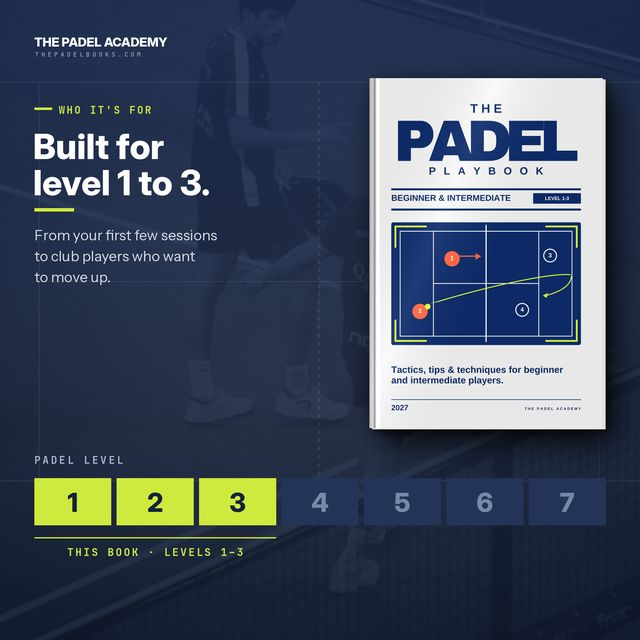
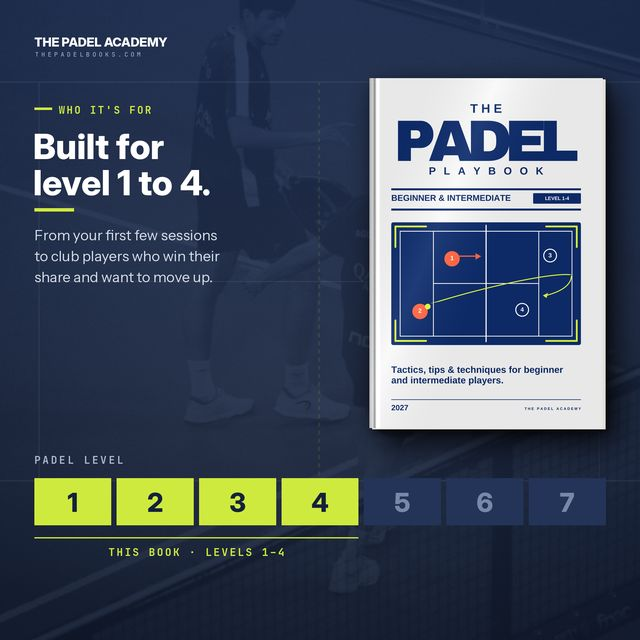
Beginner & Intermediate: level 1-4; real page counts (219, Kids 144); refreshed gallery
Claude-Session: https://claude.ai/code/session_01HDyiDiBH5urCYLNdWDXYCS

Changed region(s): [[0.0938, 0.7188, 0.5625, 0.875], [0.0625, 0.375, 0.3438, 0.4688], [0.2812, 0.25, 0.3438, 0.3125]]

diff --git a/the-padel-playbook-beginner-intermediate.html b/the-padel-playbook-beginner-intermediate.html
@@ -2,13 +2,13 @@
 <html lang="en"><head>
 <meta charset="utf-8"><meta name="viewport" content="width=device-width, initial-scale=1, viewport-fit=cover">
 <title>The Padel Playbook: Beginner &amp; Intermediate (2027) | Ebook | The Padel Academy</title>
-<meta name="description" content="The Padel Playbook: Beginner &amp; Intermediate: Tactics, tips &amp; techniques for beginner and intermediate players (2027). 180 pages with court diagrams. Look inside the first 20 pages, then buy the ebook (EPUB + PDF).">
+<meta name="description" content="The Padel Playbook: Beginner &amp; Intermediate: Tactics, tips &amp; techniques for beginner and intermediate players (2027). 219 pages with court diagrams. Look inside the first 20 pages, then buy the ebook (EPUB + PDF).">
 <link rel="canonical" href="https://thepadelbooks.com/the-padel-playbook-beginner-intermediate">
-<meta property="og:type" content="article"><meta property="og:title" content="The Padel Playbook: Beginner &amp; Intermediate (2027) | Ebook | The Padel Academy"><meta property="og:description" content="The Padel Playbook: Beginner &amp; Intermediate: Tactics, tips &amp; techniques for beginner and intermediate players (2027). 180 pages with court diagrams. Look inside the first 20 pages, then buy the ebook (EPUB + PDF).">
+<meta property="og:type" content="article"><meta property="og:title" content="The Padel Playbook: Beginner &amp; Intermediate (2027) | Ebook | The Padel Academy"><meta property="og:description" content="The Padel Playbook: Beginner &amp; Intermediate: Tactics, tips &amp; techniques for beginner and intermediate players (2027). 219 pages with court diagrams. Look inside the first 20 pages, then buy the ebook (EPUB + PDF).">
 <meta property="og:url" content="https://thepadelbooks.com/the-padel-playbook-beginner-intermediate"><meta property="og:image" content="https://thepadelbooks.com/photo-net-ball.jpg"><meta name="twitter:card" content="summary_large_image">
 <link rel="preconnect" href="https://fonts.googleapis.com"><link rel="preconnect" href="https://fonts.gstatic.com" crossorigin><link rel="stylesheet" href="https://fonts.googleapis.com/css2?family=Instrument+Sans:ital,wght@0,400;0,500;0,600;1,400&family=JetBrains+Mono:wght@400;600&display=swap">
 <link rel="stylesheet" href="/journal.css?v=dfe42151">
-<script type="application/ld+json">{"@context":"https://schema.org","@type":"Book","name":"The Padel Playbook: Beginner & Intermediate","author":{"@type":"Organization","name":"The Padel Academy"},"bookFormat":"https://schema.org/EBook","numberOfPages":180,"image":"https://thepadelbooks.com/cover-beginner.jpg","offers":{"@type":"Offer","price":"4.99","priceCurrency":"EUR","url":"https://discover.lemonsqueezy.com/checkout/buy/a44e1d09-6ff9-475b-901d-65291fad3bf1","availability":"https://schema.org/InStock"}}</script>
+<script type="application/ld+json">{"@context":"https://schema.org","@type":"Book","name":"The Padel Playbook: Beginner & Intermediate","author":{"@type":"Organization","name":"The Padel Academy"},"bookFormat":"https://schema.org/EBook","numberOfPages":219,"image":"https://thepadelbooks.com/cover-beginner.jpg","offers":{"@type":"Offer","price":"4.99","priceCurrency":"EUR","url":"https://discover.lemonsqueezy.com/checkout/buy/a44e1d09-6ff9-475b-901d-65291fad3bf1","availability":"https://schema.org/InStock"}}</script>
 </head><body>
 <header class="top"><div class="wrap nav">
 <a class="logo" href="/"><b>THE PADEL ACADEMY</b><span>THEPADELBOOKS.COM</span></a>
@@ -25,7 +25,7 @@
     <nav class="crumbs"><a href="/#books">Books</a> / <span>Beginner & Intermediate</span></nav>
     <h1>The Padel Playbook: Beginner & Intermediate</h1>
     <p class="book-sub">Tactics, tips & techniques for beginner and intermediate players (2027)</p>
-    <div class="meta"><span>New to padel → level 3</span><span>180 pages</span><span>By The Padel Academy</span><span>2 min read</span></div>
+    <div class="meta"><span>Level 1 → 4</span><span>219 pages</span><span>By The Padel Academy</span><span>2 min read</span></div>
     <div class="about"><p><strong>From your first rally to your first league.</strong> Padel is easy to start and hard to master. This book takes you from "I can rally" to winning matches, using court diagrams instead of long theory.</p>
 <p>Part one teaches the game: how to find your level, the rules that decide matches (scoring, the serve, the walls and the new Star Point), the right gear, and how to choose between the drive and revés side.</p>
 <p>Part two is where points are won: positioning and moving as a pair, the wall game off the back, side and double walls, overheads (bandeja, smash, víbora and when to let the ball bounce), volleys, lobs and the chiquita, the patterns that win points at club level, and what to learn from Premier Padel.</p>
@@ -37,7 +37,7 @@
 <section class="gal" id="closer-look"><div class="wrap">
   <div class="look-head"><div><div class="eyebrow">Inside the book</div><h2>Take a closer look</h2></div>
   <div class="gal-nav"><button class="nav-btn gal-prev" type="button" aria-label="Scroll back">←</button><button class="nav-btn gal-next" type="button" aria-label="Scroll forward">→</button></div></div>
-  <div class="gal-track"><button class="gal-item" type="button" data-full="/gallery/beginner/02.jpg" aria-label="Enlarge image 1 of 9: Built for level 1 to 3."><img src="/gallery/beginner/02-sm.jpg" alt="The Padel Playbook: Beginner & Intermediate: Built for level 1 to 3." width="640" height="640" loading="lazy" decoding="async"></button><button class="gal-item" type="button" data-full="/gallery/beginner/03.jpg" aria-label="Enlarge image 2 of 9: From your first rally to your first league."><img src="/gallery/beginner/03-sm.jpg" alt="The Padel Playbook: Beginner & Intermediate: From your first rally to your first league." width="640" height="640" loading="lazy" decoding="async"></button><button class="gal-item" type="button" data-full="/gallery/beginner/04.jpg" aria-label="Enlarge image 3 of 9: The whole game, explained."><img src="/gallery/beginner/04-sm.jpg" alt="The Padel Playbook: Beginner & Intermediate: The whole game, explained." width="640" height="640" loading="lazy" decoding="async"></button><button class="gal-item" type="button" data-full="/gallery/beginner/05.jpg" aria-label="Enlarge image 4 of 9: Clear steps. Real diagrams. Next match."><img src="/gallery/beginner/05-sm.jpg" alt="The Padel Playbook: Beginner & Intermediate: Clear steps. Real diagrams. Next match." width="640" height="640" loading="lazy" decoding="async"></button><button class="gal-item" type="button" data-full="/gallery/beginner/06.jpg" aria-label="Enlarge image 5 of 9: See the play before you play it."><img src="/gallery/beginner/06-sm.jpg" alt="The Padel Playbook: Beginner & Intermediate: See the play before you play it." width="640" height="640" loading="lazy" decoding="async"></button><button class="gal-item" type="button" data-full="/gallery/beginner/07.jpg" aria-label="Enlarge image 6 of 9: The bandeja, explained."><img src="/gallery/beginner/07-sm.jpg" alt="The Padel Playbook: Beginner & Intermediate: The bandeja, explained." width="640" height="640" loading="lazy" decoding="async"></button><button class="gal-item" type="button" data-full="/gallery/beginner/08.jpg" aria-label="Enlarge image 7 of 9: Move as a pair."><img src="/gallery/beginner/08-sm.jpg" alt="The Padel Playbook: Beginner & Intermediate: Move as a pair." width="640" height="640" loading="lazy" decoding="async"></button><button class="gal-item" type="button" data-full="/gallery/beginner/09.jpg" aria-label="Enlarge image 8 of 9: How club points are won."><img src="/gallery/beginner/09-sm.jpg" alt="The Padel Playbook: Beginner & Intermediate: How club points are won." width="640" height="640" loading="lazy" decoding="async"></button><button class="gal-item" type="button" data-full="/gallery/beginner/10.jpg" aria-label="Enlarge image 9 of 9: Read the court like a coach."><img src="/gallery/beginner/10-sm.jpg" alt="The Padel Playbook: Beginner & Intermediate: Read the court like a coach." width="640" height="640" loading="lazy" decoding="async"></button></div>
+  <div class="gal-track"><button class="gal-item" type="button" data-full="/gallery/beginner/02.jpg" aria-label="Enlarge image 1 of 9: Built for level 1 to 4."><img src="/gallery/beginner/02-sm.jpg" alt="The Padel Playbook: Beginner & Intermediate: Built for level 1 to 4." width="640" height="640" loading="lazy" decoding="async"></button><button class="gal-item" type="button" data-full="/gallery/beginner/03.jpg" aria-label="Enlarge image 2 of 9: From your first rally to your first league."><img src="/gallery/beginner/03-sm.jpg" alt="The Padel Playbook: Beginner & Intermediate: From your first rally to your first league." width="640" height="640" loading="lazy" decoding="async"></button><button class="gal-item" type="button" data-full="/gallery/beginner/04.jpg" aria-label="Enlarge image 3 of 9: The whole game, explained."><img src="/gallery/beginner/04-sm.jpg" alt="The Padel Playbook: Beginner & Intermediate: The whole game, explained." width="640" height="640" loading="lazy" decoding="async"></button><button class="gal-item" type="button" data-full="/gallery/beginner/05.jpg" aria-label="Enlarge image 4 of 9: Clear steps. Real diagrams. Next match."><img src="/gallery/beginner/05-sm.jpg" alt="The Padel Playbook: Beginner & Intermediate: Clear steps. Real diagrams. Next match." width="640" height="640" loading="lazy" decoding="async"></button><button class="gal-item" type="button" data-full="/gallery/beginner/06.jpg" aria-label="Enlarge image 5 of 9: See the play before you play it."><img src="/gallery/beginner/06-sm.jpg" alt="The Padel Playbook: Beginner & Intermediate: See the play before you play it." width="640" height="640" loading="lazy" decoding="async"></button><button class="gal-item" type="button" data-full="/gallery/beginner/07.jpg" aria-label="Enlarge image 6 of 9: The bandeja, explained."><img src="/gallery/beginner/07-sm.jpg" alt="The Padel Playbook: Beginner & Intermediate: The bandeja, explained." width="640" height="640" loading="lazy" decoding="async"></button><button class="gal-item" type="button" data-full="/gallery/beginner/08.jpg" aria-label="Enlarge image 7 of 9: Move as a pair."><img src="/gallery/beginner/08-sm.jpg" alt="The Padel Playbook: Beginner & Intermediate: Move as a pair." width="640" height="640" loading="lazy" decoding="async"></button><button class="gal-item" type="button" data-full="/gallery/beginner/09.jpg" aria-label="Enlarge image 8 of 9: How club points are won."><img src="/gallery/beginner/09-sm.jpg" alt="The Padel Playbook: Beginner & Intermediate: How club points are won." width="640" height="640" loading="lazy" decoding="async"></button><button class="gal-item" type="button" data-full="/gallery/beginner/10.jpg" aria-label="Enlarge image 9 of 9: Read the court like a coach."><img src="/gallery/beginner/10-sm.jpg" alt="The Padel Playbook: Beginner & Intermediate: Read the court like a coach." width="640" height="640" loading="lazy" decoding="async"></button></div>
   <p class="hint">Swipe or use the arrows. Tap an image to enlarge it.</p>
   <dialog class="gal-box" aria-label="Enlarged image"><img alt=""><button class="gal-x" type="button" aria-label="Close">✕</button><button class="nav-btn gal-bp" type="button" aria-label="Previous image">←</button><button class="nav-btn gal-bn" type="button" aria-label="Next image">→</button></dialog>
 </div></section>
@@ -59,11 +59,11 @@
 </script>
 <section class="look" id="look-inside"><div class="wrap">
   <div class="look-head"><div><div class="eyebrow">Look inside</div><h2>Flip through the first 20 pages</h2></div>
-  <p class="counter" aria-live="polite">Page <b id="pg">1</b> of 180</p></div>
-  <div class="viewer" data-key="beginner" data-n="20" data-total="180">
+  <p class="counter" aria-live="polite">Page <b id="pg">1</b> of 219</p></div>
+  <div class="viewer" data-key="beginner" data-n="20" data-total="219">
     <button class="nav-btn prev" aria-label="Previous page" disabled>←</button>
     <div class="page-frame"><img id="pageimg" src="/preview/beginner/p-001.jpg" alt="Page 1 of The Padel Playbook: Beginner & Intermediate" width="660" height="990">
-      <div class="end" hidden><div class="eyebrow">End of the preview</div><h3>Keep reading?</h3><p>That was page 20 of 180.</p><a class="btn primary" href="https://discover.lemonsqueezy.com/checkout/buy/a44e1d09-6ff9-475b-901d-65291fad3bf1?checkout%5Bcustom%5D%5Bsite%5D=thepadelbooks.com">Buy the ebook · €4.99</a></div>
+      <div class="end" hidden><div class="eyebrow">End of the preview</div><h3>Keep reading?</h3><p>That was page 20 of 219.</p><a class="btn primary" href="https://discover.lemonsqueezy.com/checkout/buy/a44e1d09-6ff9-475b-901d-65291fad3bf1?checkout%5Bcustom%5D%5Bsite%5D=thepadelbooks.com">Buy the ebook · €4.99</a></div>
     </div>
     <button class="nav-btn next" aria-label="Next page">→</button>
   </div>
@@ -71,7 +71,7 @@
   <p class="hint">Use the arrows, your keyboard or swipe. Preview shows pages 1–20.</p>
 </div></section>
 
-<section class="more"><div class="wrap"><div class="eyebrow">More from The Padel Academy</div><div class="bk-list three four"><a class="bk" href="/the-padel-playbook-intermediate-advanced"><img src="/cover-advanced.jpg" alt="Cover of The Padel Playbook: Intermediate & Advanced" width="160" height="240" loading="lazy"><span><b>The Padel Playbook: Intermediate & Advanced</b><span>Level 3 → 6 · 180 pages · €6.99</span><i>See the book →</i></span></a><a class="bk" href="/the-padel-playbook-kids-edition"><img src="/cover-kids.jpg" alt="Cover of The Padel Playbook: Kids Edition" width="160" height="240" loading="lazy"><span><b>The Padel Playbook: Kids Edition</b><span>Ages 10–14 · 120 pages · €4.99</span><i>See the book →</i></span></a><a class="bk" href="/the-padel-drill-book"><img src="/cover-drill.jpg" alt="Cover of The Padel Drill Book" width="160" height="240" loading="lazy"><span><b>The Padel Drill Book</b><span>All levels · 160 pages · €6.99</span><i>See the book →</i></span></a><a class="bk" href="/the-padel-drill-book-intermediate-advanced"><img src="/cover-drill2.jpg" alt="Cover of The Padel Drill Book: Intermediate & Advanced" width="160" height="240" loading="lazy"><span><b>The Padel Drill Book: Intermediate & Advanced</b><span>Level 3 → 6 · 165 pages · €6.99</span><i>See the book →</i></span></a></div></div></section>
+<section class="more"><div class="wrap"><div class="eyebrow">More from The Padel Academy</div><div class="bk-list three four"><a class="bk" href="/the-padel-playbook-intermediate-advanced"><img src="/cover-advanced.jpg" alt="Cover of The Padel Playbook: Intermediate & Advanced" width="160" height="240" loading="lazy"><span><b>The Padel Playbook: Intermediate & Advanced</b><span>Level 3 → 6 · 180 pages · €6.99</span><i>See the book →</i></span></a><a class="bk" href="/the-padel-playbook-kids-edition"><img src="/cover-kids.jpg" alt="Cover of The Padel Playbook: Kids Edition" width="160" height="240" loading="lazy"><span><b>The Padel Playbook: Kids Edition</b><span>Ages 10–14 · 144 pages · €4.99</span><i>See the book →</i></span></a><a class="bk" href="/the-padel-drill-book"><img src="/cover-drill.jpg" alt="Cover of The Padel Drill Book" width="160" height="240" loading="lazy"><span><b>The Padel Drill Book</b><span>All levels · 160 pages · €6.99</span><i>See the book →</i></span></a><a class="bk" href="/the-padel-drill-book-intermediate-advanced"><img src="/cover-drill2.jpg" alt="Cover of The Padel Drill Book: Intermediate & Advanced" width="160" height="240" loading="lazy"><span><b>The Padel Drill Book: Intermediate & Advanced</b><span>Level 3 → 6 · 165 pages · €6.99</span><i>See the book →</i></span></a></div></div></section>
 </main>
 <script>
 (function(){

diff --git a/the-padel-playbook-kids-edition.html b/the-padel-playbook-kids-edition.html
@@ -2,13 +2,13 @@
 <html lang="en"><head>
 <meta charset="utf-8"><meta name="viewport" content="width=device-width, initial-scale=1, viewport-fit=cover">
 <title>The Padel Playbook: Kids Edition (2027) | Ebook | The Padel Academy</title>
-<meta name="description" content="The Padel Playbook: Kids Edition: Padel for ages 10 to 14 (2027). 120 pages with court diagrams. Look inside the first 20 pages, then buy the ebook (EPUB + PDF).">
+<meta name="description" content="The Padel Playbook: Kids Edition: Padel for ages 10 to 14 (2027). 144 pages with court diagrams. Look inside the first 20 pages, then buy the ebook (EPUB + PDF).">
 <link rel="canonical" href="https://thepadelbooks.com/the-padel-playbook-kids-edition">
-<meta property="og:type" content="article"><meta property="og:title" content="The Padel Playbook: Kids Edition (2027) | Ebook | The Padel Academy"><meta property="og:description" content="The Padel Playbook: Kids Edition: Padel for ages 10 to 14 (2027). 120 pages with court diagrams. Look inside the first 20 pages, then buy the ebook (EPUB + PDF).">
+<meta property="og:type" content="article"><meta property="og:title" content="The Padel Playbook: Kids Edition (2027) | Ebook | The Padel Academy"><meta property="og:description" content="The Padel Playbook: Kids Edition: Padel for ages 10 to 14 (2027). 144 pages with court diagrams. Look inside the first 20 pages, then buy the ebook (EPUB + PDF).">
 <meta property="og:url" content="https://thepadelbooks.com/the-padel-playbook-kids-edition"><meta property="og:image" content="https://thepadelbooks.com/photo-net-ball.jpg"><meta name="twitter:card" content="summary_large_image">
 <link rel="preconnect" href="https://fonts.googleapis.com"><link rel="preconnect" href="https://fonts.gstatic.com" crossorigin><link rel="stylesheet" href="https://fonts.googleapis.com/css2?family=Instrument+Sans:ital,wght@0,400;0,500;0,600;1,400&family=JetBrains+Mono:wght@400;600&display=swap">
 <link rel="stylesheet" href="/journal.css?v=dfe42151">
-<script type="application/ld+json">{"@context":"https://schema.org","@type":"Book","name":"The Padel Playbook: Kids Edition","author":{"@type":"Organization","name":"The Padel Academy"},"bookFormat":"https://schema.org/EBook","numberOfPages":120,"image":"https://thepadelbooks.com/cover-kids.jpg","offers":{"@type":"Offer","price":"4.99","priceCurrency":"EUR","url":"https://discover.lemonsqueezy.com/checkout/buy/6f5aac7c-7d2b-4f11-b964-1c4cd2ee158a","availability":"https://schema.org/InStock"}}</script>
+<script type="application/ld+json">{"@context":"https://schema.org","@type":"Book","name":"The Padel Playbook: Kids Edition","author":{"@type":"Organization","name":"The Padel Academy"},"bookFormat":"https://schema.org/EBook","numberOfPages":144,"image":"https://thepadelbooks.com/cover-kids.jpg","offers":{"@type":"Offer","price":"4.99","priceCurrency":"EUR","url":"https://discover.lemonsqueezy.com/checkout/buy/6f5aac7c-7d2b-4f11-b964-1c4cd2ee158a","availability":"https://schema.org/InStock"}}</script>
 </head><body>
 <header class="top"><div class="wrap nav">
 <a class="logo" href="/"><b>THE PADEL ACADEMY</b><span>THEPADELBOOKS.COM</span></a>
@@ -25,7 +25,7 @@
     <nav class="crumbs"><a href="/#books">Books</a> / <span>Kids Edition</span></nav>
     <h1>The Padel Playbook: Kids Edition</h1>
     <p class="book-sub">Padel for ages 10 to 14 (2027)</p>
-    <div class="meta"><span>Ages 10–14</span><span>120 pages</span><span>By The Padel Academy</span><span>2 min read</span></div>
+    <div class="meta"><span>Ages 10–14</span><span>144 pages</span><span>By The Padel Academy</span><span>2 min read</span></div>
     <div class="about"><p><strong>Learn the basics. Build your skills. Have fun on court.</strong> A padel book written for young players aged 10 to 14, and for the parents and coaches who play with them.</p>
 <p>Part one gets them started: what padel is, the gear they need, the rules made simple (scoring, serving and the bounce rule), how to warm up safely, the grip and ready position, their first shots (forehand, backhand, volleys, lob and serve), "the magic walls" and how the glass helps you, and where to stand as a team.</p>
 <p>Part two is about playing the game: what to do with balls over your head (let it bounce, bandeja and smash), simple tactics to win more points, being a great partner, fair play and good manners, and the padel brain: nerves, mistakes and confidence.</p>
@@ -59,11 +59,11 @@
 </script>
 <section class="look" id="look-inside"><div class="wrap">
   <div class="look-head"><div><div class="eyebrow">Look inside</div><h2>Flip through the first 20 pages</h2></div>
-  <p class="counter" aria-live="polite">Page <b id="pg">1</b> of 120</p></div>
-  <div class="viewer" data-key="kids" data-n="20" data-total="120">
+  <p class="counter" aria-live="polite">Page <b id="pg">1</b> of 144</p></div>
+  <div class="viewer" data-key="kids" data-n="20" data-total="144">
     <button class="nav-btn prev" aria-label="Previous page" disabled>←</button>
     <div class="page-frame"><img id="pageimg" src="/preview/kids/p-001.jpg" alt="Page 1 of The Padel Playbook: Kids Edition" width="660" height="990">
-      <div class="end" hidden><div class="eyebrow">End of the preview</div><h3>Keep reading?</h3><p>That was page 20 of 120.</p><a class="btn primary" href="https://discover.lemonsqueezy.com/checkout/buy/6f5aac7c-7d2b-4f11-b964-1c4cd2ee158a?checkout%5Bcustom%5D%5Bsite%5D=thepadelbooks.com">Buy the ebook · €4.99</a></div>
+      <div class="end" hidden><div class="eyebrow">End of the preview</div><h3>Keep reading?</h3><p>That was page 20 of 144.</p><a class="btn primary" href="https://discover.lemonsqueezy.com/checkout/buy/6f5aac7c-7d2b-4f11-b964-1c4cd2ee158a?checkout%5Bcustom%5D%5Bsite%5D=thepadelbooks.com">Buy the ebook · €4.99</a></div>
     </div>
     <button class="nav-btn next" aria-label="Next page">→</button>
   </div>
@@ -71,7 +71,7 @@
   <p class="hint">Use the arrows, your keyboard or swipe. Preview shows pages 1–20.</p>
 </div></section>
 
-<section class="more"><div class="wrap"><div class="eyebrow">More from The Padel Academy</div><div class="bk-list three four"><a class="bk" href="/the-padel-playbook-beginner-intermediate"><img src="/cover-beginner.jpg" alt="Cover of The Padel Playbook: Beginner & Intermediate" width="160" height="240" loading="lazy"><span><b>The Padel Playbook: Beginner & Intermediate</b><span>New to padel → level 3 · 180 pages · €4.99</span><i>See the book →</i></span></a><a class="bk" href="/the-padel-playbook-intermediate-advanced"><img src="/cover-advanced.jpg" alt="Cover of The Padel Playbook: Intermediate & Advanced" width="160" height="240" loading="lazy"><span><b>The Padel Playbook: Intermediate & Advanced</b><span>Level 3 → 6 · 180 pages · €6.99</span><i>See the book →</i></span></a><a class="bk" href="/the-padel-drill-book"><img src="/cover-drill.jpg" alt="Cover of The Padel Drill Book" width="160" height="240" loading="lazy"><span><b>The Padel Drill Book</b><span>All levels · 160 pages · €6.99</span><i>See the book →</i></span></a><a class="bk" href="/the-padel-drill-book-intermediate-advanced"><img src="/cover-drill2.jpg" alt="Cover of The Padel Drill Book: Intermediate & Advanced" width="160" height="240" loading="lazy"><span><b>The Padel Drill Book: Intermediate & Advanced</b><span>Level 3 → 6 · 165 pages · €6.99</span><i>See the book →</i></span></a></div></div></section>
+<section class="more"><div class="wrap"><div class="eyebrow">More from The Padel Academy</div><div class="bk-list three four"><a class="bk" href="/the-padel-playbook-beginner-intermediate"><img src="/cover-beginner.jpg" alt="Cover of The Padel Playbook: Beginner & Intermediate" width="160" height="240" loading="lazy"><span><b>The Padel Playbook: Beginner & Intermediate</b><span>Level 1 → 4 · 219 pages · €4.99</span><i>See the book →</i></span></a><a class="bk" href="/the-padel-playbook-intermediate-advanced"><img src="/cover-advanced.jpg" alt="Cover of The Padel Playbook: Intermediate & Advanced" width="160" height="240" loading="lazy"><span><b>The Padel Playbook: Intermediate & Advanced</b><span>Level 3 → 6 · 180 pages · €6.99</span><i>See the book →</i></span></a><a class="bk" href="/the-padel-drill-book"><img src="/cover-drill.jpg" alt="Cover of The Padel Drill Book" width="160" height="240" loading="lazy"><span><b>The Padel Drill Book</b><span>All levels · 160 pages · €6.99</span><i>See the book →</i></span></a><a class="bk" href="/the-padel-drill-book-intermediate-advanced"><img src="/cover-drill2.jpg" alt="Cover of The Padel Drill Book: Intermediate & Advanced" width="160" height="240" loading="lazy"><span><b>The Padel Drill Book: Intermediate & Advanced</b><span>Level 3 → 6 · 165 pages · €6.99</span><i>See the book →</i></span></a></div></div></section>
 </main>
 <script>
 (function(){

diff --git a/the-padel-drill-book.html b/the-padel-drill-book.html
@@ -73,7 +73,7 @@
   <p class="hint">Use the arrows, your keyboard or swipe. Preview shows pages 1–20.</p>
 </div></section>
 
-<section class="more"><div class="wrap"><div class="eyebrow">More from The Padel Academy</div><div class="bk-list three four"><a class="bk" href="/the-padel-playbook-beginner-intermediate"><img src="/cover-beginner.jpg" alt="Cover of The Padel Playbook: Beginner & Intermediate" width="160" height="240" loading="lazy"><span><b>The Padel Playbook: Beginner & Intermediate</b><span>New to padel → level 3 · 180 pages · €4.99</span><i>See the book →</i></span></a><a class="bk" href="/the-padel-playbook-intermediate-advanced"><img src="/cover-advanced.jpg" alt="Cover of The Padel Playbook: Intermediate & Advanced" width="160" height="240" loading="lazy"><span><b>The Padel Playbook: Intermediate & Advanced</b><span>Level 3 → 6 · 180 pages · €6.99</span><i>See the book →</i></span></a><a class="bk" href="/the-padel-playbook-kids-edition"><img src="/cover-kids.jpg" alt="Cover of The Padel Playbook: Kids Edition" width="160" height="240" loading="lazy"><span><b>The Padel Playbook: Kids Edition</b><span>Ages 10–14 · 120 pages · €4.99</span><i>See the book →</i></span></a><a class="bk" href="/the-padel-drill-book-intermediate-advanced"><img src="/cover-drill2.jpg" alt="Cover of The Padel Drill Book: Intermediate & Advanced" width="160" height="240" loading="lazy"><span><b>The Padel Drill Book: Intermediate & Advanced</b><span>Level 3 → 6 · 165 pages · €6.99</span><i>See the book →</i></span></a></div></div></section>
+<section class="more"><div class="wrap"><div class="eyebrow">More from The Padel Academy</div><div class="bk-list three four"><a class="bk" href="/the-padel-playbook-beginner-intermediate"><img src="/cover-beginner.jpg" alt="Cover of The Padel Playbook: Beginner & Intermediate" width="160" height="240" loading="lazy"><span><b>The Padel Playbook: Beginner & Intermediate</b><span>Level 1 → 4 · 219 pages · €4.99</span><i>See the book →</i></span></a><a class="bk" href="/the-padel-playbook-intermediate-advanced"><img src="/cover-advanced.jpg" alt="Cover of The Padel Playbook: Intermediate & Advanced" width="160" height="240" loading="lazy"><span><b>The Padel Playbook: Intermediate & Advanced</b><span>Level 3 → 6 · 180 pages · €6.99</span><i>See the book →</i></span></a><a class="bk" href="/the-padel-playbook-kids-edition"><img src="/cover-kids.jpg" alt="Cover of The Padel Playbook: Kids Edition" width="160" height="240" loading="lazy"><span><b>The Padel Playbook: Kids Edition</b><span>Ages 10–14 · 144 pages · €4.99</span><i>See the book →</i></span></a><a class="bk" href="/the-padel-drill-book-intermediate-advanced"><img src="/cover-drill2.jpg" alt="Cover of The Padel Drill Book: Intermediate & Advanced" width="160" height="240" loading="lazy"><span><b>The Padel Drill Book: Intermediate & Advanced</b><span>Level 3 → 6 · 165 pages · €6.99</span><i>See the book →</i></span></a></div></div></section>
 </main>
 <script>
 (function(){

diff --git a/the-padel-playbook-intermediate-advanced.html b/the-padel-playbook-intermediate-advanced.html
@@ -73,7 +73,7 @@
   <p class="hint">Use the arrows, your keyboard or swipe. Preview shows pages 1–20.</p>
 </div></section>
 
-<section class="more"><div class="wrap"><div class="eyebrow">More from The Padel Academy</div><div class="bk-list three four"><a class="bk" href="/the-padel-playbook-beginner-intermediate"><img src="/cover-beginner.jpg" alt="Cover of The Padel Playbook: Beginner & Intermediate" width="160" height="240" loading="lazy"><span><b>The Padel Playbook: Beginner & Intermediate</b><span>New to padel → level 3 · 180 pages · €4.99</span><i>See the book →</i></span></a><a class="bk" href="/the-padel-playbook-kids-edition"><img src="/cover-kids.jpg" alt="Cover of The Padel Playbook: Kids Edition" width="160" height="240" loading="lazy"><span><b>The Padel Playbook: Kids Edition</b><span>Ages 10–14 · 120 pages · €4.99</span><i>See the book →</i></span></a><a class="bk" href="/the-padel-drill-book"><img src="/cover-drill.jpg" alt="Cover of The Padel Drill Book" width="160" height="240" loading="lazy"><span><b>The Padel Drill Book</b><span>All levels · 160 pages · €6.99</span><i>See the book →</i></span></a><a class="bk" href="/the-padel-drill-book-intermediate-advanced"><img src="/cover-drill2.jpg" alt="Cover of The Padel Drill Book: Intermediate & Advanced" width="160" height="240" loading="lazy"><span><b>The Padel Drill Book: Intermediate & Advanced</b><span>Level 3 → 6 · 165 pages · €6.99</span><i>See the book →</i></span></a></div></div></section>
+<section class="more"><div class="wrap"><div class="eyebrow">More from The Padel Academy</div><div class="bk-list three four"><a class="bk" href="/the-padel-playbook-beginner-intermediate"><img src="/cover-beginner.jpg" alt="Cover of The Padel Playbook: Beginner & Intermediate" width="160" height="240" loading="lazy"><span><b>The Padel Playbook: Beginner & Intermediate</b><span>Level 1 → 4 · 219 pages · €4.99</span><i>See the book →</i></span></a><a class="bk" href="/the-padel-playbook-kids-edition"><img src="/cover-kids.jpg" alt="Cover of The Padel Playbook: Kids Edition" width="160" height="240" loading="lazy"><span><b>The Padel Playbook: Kids Edition</b><span>Ages 10–14 · 144 pages · €4.99</span><i>See the book →</i></span></a><a class="bk" href="/the-padel-drill-book"><img src="/cover-drill.jpg" alt="Cover of The Padel Drill Book" width="160" height="240" loading="lazy"><span><b>The Padel Drill Book</b><span>All levels · 160 pages · €6.99</span><i>See the book →</i></span></a><a class="bk" href="/the-padel-drill-book-intermediate-advanced"><img src="/cover-drill2.jpg" alt="Cover of The Padel Drill Book: Intermediate & Advanced" width="160" height="240" loading="lazy"><span><b>The Padel Drill Book: Intermediate & Advanced</b><span>Level 3 → 6 · 165 pages · €6.99</span><i>See the book →</i></span></a></div></div></section>
 </main>
 <script>
 (function(){

diff --git a/the-padel-drill-book-intermediate-advanced.html b/the-padel-drill-book-intermediate-advanced.html
@@ -71,7 +71,7 @@
   <p class="hint">Use the arrows, your keyboard or swipe. Preview shows pages 1–20.</p>
 </div></section>
 
-<section class="more"><div class="wrap"><div class="eyebrow">More from The Padel Academy</div><div class="bk-list three four"><a class="bk" href="/the-padel-playbook-beginner-intermediate"><img src="/cover-beginner.jpg" alt="Cover of The Padel Playbook: Beginner & Intermediate" width="160" height="240" loading="lazy"><span><b>The Padel Playbook: Beginner & Intermediate</b><span>New to padel → level 3 · 180 pages · €4.99</span><i>See the book →</i></span></a><a class="bk" href="/the-padel-playbook-intermediate-advanced"><img src="/cover-advanced.jpg" alt="Cover of The Padel Playbook: Intermediate & Advanced" width="160" height="240" loading="lazy"><span><b>The Padel Playbook: Intermediate & Advanced</b><span>Level 3 → 6 · 180 pages · €6.99</span><i>See the book →</i></span></a><a class="bk" href="/the-padel-playbook-kids-edition"><img src="/cover-kids.jpg" alt="Cover of The Padel Playbook: Kids Edition" width="160" height="240" loading="lazy"><span><b>The Padel Playbook: Kids Edition</b><span>Ages 10–14 · 120 pages · €4.99</span><i>See the book →</i></span></a><a class="bk" href="/the-padel-drill-book"><img src="/cover-drill.jpg" alt="Cover of The Padel Drill Book" width="160" height="240" loading="lazy"><span><b>The Padel Drill Book</b><span>All levels · 160 pages · €6.99</span><i>See the book →</i></span></a></div></div></section>
+<section class="more"><div class="wrap"><div class="eyebrow">More from The Padel Academy</div><div class="bk-list three four"><a class="bk" href="/the-padel-playbook-beginner-intermediate"><img src="/cover-beginner.jpg" alt="Cover of The Padel Playbook: Beginner & Intermediate" width="160" height="240" loading="lazy"><span><b>The Padel Playbook: Beginner & Intermediate</b><span>Level 1 → 4 · 219 pages · €4.99</span><i>See the book →</i></span></a><a class="bk" href="/the-padel-playbook-intermediate-advanced"><img src="/cover-advanced.jpg" alt="Cover of The Padel Playbook: Intermediate & Advanced" width="160" height="240" loading="lazy"><span><b>The Padel Playbook: Intermediate & Advanced</b><span>Level 3 → 6 · 180 pages · €6.99</span><i>See the book →</i></span></a><a class="bk" href="/the-padel-playbook-kids-edition"><img src="/cover-kids.jpg" alt="Cover of The Padel Playbook: Kids Edition" width="160" height="240" loading="lazy"><span><b>The Padel Playbook: Kids Edition</b><span>Ages 10–14 · 144 pages · €4.99</span><i>See the book →</i></span></a><a class="bk" href="/the-padel-drill-book"><img src="/cover-drill.jpg" alt="Cover of The Padel Drill Book" width="160" height="240" loading="lazy"><span><b>The Padel Drill Book</b><span>All levels · 160 pages · €6.99</span><i>See the book →</i></span></a></div></div></section>
 </main>
 <script>
 (function(){

diff --git a/index.html b/index.html
@@ -334,9 +334,9 @@ footer .logo span,footer h4,footer .legal,footer p{color:var(--on-navy-soft)!imp
 
 <script>
 const books=[
- {img:"cover-beginner.jpg",amz:"https://www.amazon.com/dp/B0HP8HXZS2",url:"/the-padel-playbook-beginner-intermediate",buy:"https://discover.lemonsqueezy.com/checkout/buy/a44e1d09-6ff9-475b-901d-65291fad3bf1?checkout%5Bcustom%5D%5Bsite%5D=thepadelbooks.com",full:"The Padel Playbook: Tips, Tricks & Techniques for Beginner and Intermediate Players",tag:"Beginner & Intermediate",p:"€4.99",pages:180},
+ {img:"cover-beginner.jpg",amz:"https://www.amazon.com/dp/B0HP8HXZS2",url:"/the-padel-playbook-beginner-intermediate",buy:"https://discover.lemonsqueezy.com/checkout/buy/a44e1d09-6ff9-475b-901d-65291fad3bf1?checkout%5Bcustom%5D%5Bsite%5D=thepadelbooks.com",full:"The Padel Playbook: Tips, Tricks & Techniques for Beginner and Intermediate Players",tag:"Beginner & Intermediate",p:"€4.99",pages:219},
  {img:"cover-advanced.jpg",amz:"https://www.amazon.com/dp/B0HNH9G6QF",url:"/the-padel-playbook-intermediate-advanced",buy:"https://discover.lemonsqueezy.com/checkout/buy/78a88497-8f59-4fba-b0cc-94ae54aa6ac2?checkout%5Bcustom%5D%5Bsite%5D=thepadelbooks.com",full:"The Padel Playbook: Tactics, Tips & Techniques for Intermediate and Advanced Players",tag:"Intermediate & Advanced",p:"€6.99",pages:180,badge:true},
- {img:"cover-kids.jpg",amz:"https://www.amazon.com/dp/B0HP9K85GT",url:"/the-padel-playbook-kids-edition",buy:"https://discover.lemonsqueezy.com/checkout/buy/6f5aac7c-7d2b-4f11-b964-1c4cd2ee158a?checkout%5Bcustom%5D%5Bsite%5D=thepadelbooks.com",full:"The Padel Playbook: Kids Edition, Padel for Ages 10 to 14",tag:"Kids · Ages 10–14",p:"€4.99",pages:120},
+ {img:"cover-kids.jpg",amz:"https://www.amazon.com/dp/B0HP9K85GT",url:"/the-padel-playbook-kids-edition",buy:"https://discover.lemonsqueezy.com/checkout/buy/6f5aac7c-7d2b-4f11-b964-1c4cd2ee158a?checkout%5Bcustom%5D%5Bsite%5D=thepadelbooks.com",full:"The Padel Playbook: Kids Edition, Padel for Ages 10 to 14",tag:"Kids · Ages 10–14",p:"€4.99",pages:144},
  {img:"cover-drill.jpg",amz:"https://www.amazon.com/dp/B0HNF5JPL9",url:"/the-padel-drill-book",buy:"https://discover.lemonsqueezy.com/checkout/buy/848dda56-9f8d-438e-a2bf-14601b1cbe39?checkout%5Bcustom%5D%5Bsite%5D=thepadelbooks.com",full:"The Padel Drill Book: 100 Drills to Train Smarter",tag:"100 Drills",p:"€6.99",pages:160},
  {img:"cover-drill2.jpg",amz:null,url:"/the-padel-drill-book-intermediate-advanced",buy:"https://discover.lemonsqueezy.com/checkout/buy/0a42654f-c53d-456c-94c5-8981e1c6b2ba?checkout%5Bcustom%5D%5Bsite%5D=thepadelbooks.com",full:"The Padel Drill Book: Intermediate & Advanced, 80 Drills for Levels 3 to 6",tag:"80 Drills · Level 3–6",p:"€6.99",pages:165}
 ];
